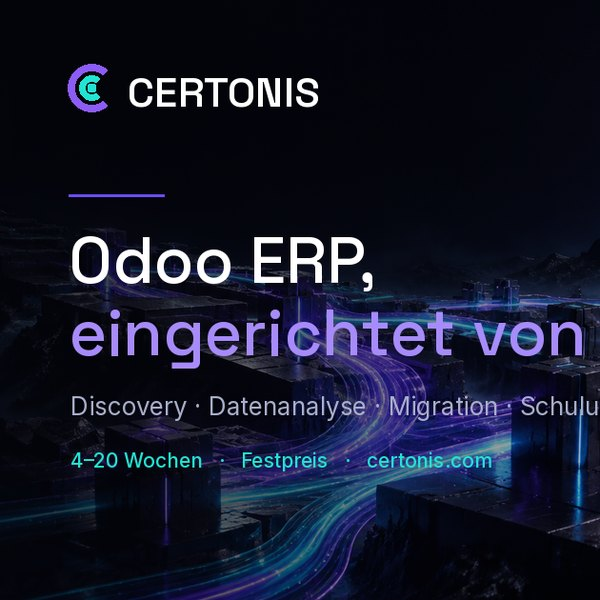
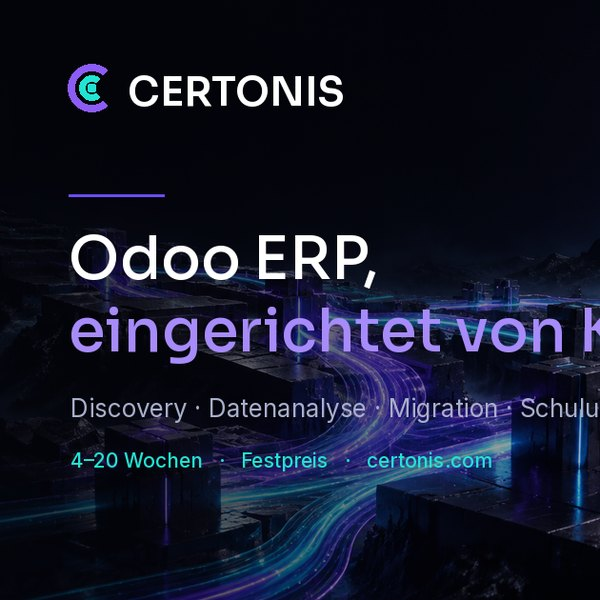
Display-Schrift von Space Grotesk auf Sora umstellen
Die Unterlängen von g, y und j wirkten abgeschnitten. Die Prüfung der
Schriftdatei zeigt: Space Grotesk zeichnet sie so — alle enden exakt bei
-0,200 em, schnurgerade. Nichts an der Seite hat beschnitten, ein Rendern ohne
Maske und ohne Farbverlauf ergab dasselbe Bild. Es war also kein Fehler,
sondern die Gestaltung der Schrift. Da es dennoch nach einem Defekt aussieht,
ersetzt Sora sie: gleiche technisch-geometrische Anmutung, aber runde,
vollständige Unterlängen.

- assets/fonts/sora-var.woff2 ersetzt space-grotesk-var.woff2, ebenso die
  Vorlade-Angabe im Seitengerüst
- Sora läuft breiter und tiefer, deshalb Hero und Überschriften etwas kleiner
  (7,2vw statt 8,2vw), Zeilenabstand von 1,02 auf 1,08 und im Hero von 0,94
  auf 1,0, damit das g der oberen Zeile die Versalien der unteren nicht berührt
- Zeilenmaske von 0,22 auf 0,26 em, gemessen an Soras Unterlänge von 0,29 em
- Social-Media-Karte neu gesetzt, sie war ebenfalls in der alten Schrift

Claude-Session: https://claude.ai/code/session_01WkdFwrJwdcpA5acGkgVG9v

diff --git a/css/main.css b/css/main.css
@@ -32,12 +32,12 @@
   --grad-line:  linear-gradient(90deg, transparent, var(--line-strong) 22%, var(--line-strong) 78%, transparent);
 
   /* Type */
-  --font-display: "Space Grotesk", ui-sans-serif, system-ui, -apple-system, "Segoe UI", sans-serif;
+  --font-display: "Sora", ui-sans-serif, system-ui, -apple-system, "Segoe UI", sans-serif;
   --font-body:    "Inter", ui-sans-serif, system-ui, -apple-system, "Segoe UI", Roboto, sans-serif;
   --font-mono:    ui-monospace, "SF Mono", "JetBrains Mono", "Fira Code", Menlo, monospace;
 
-  --fs-hero:  clamp(2.9rem, 8.2vw, 8.5rem);
-  --fs-h2:    clamp(2.1rem, 4.6vw, 4.25rem);
+  --fs-hero:  clamp(2.6rem, 7.2vw, 7.4rem);
+  --fs-h2:    clamp(2rem, 4.2vw, 3.9rem);
   --fs-h3:    clamp(1.35rem, 2.1vw, 1.9rem);
   --fs-lead:  clamp(1.05rem, 1.5vw, 1.4rem);
   --fs-body:  clamp(0.98rem, 1.05vw, 1.08rem);
@@ -127,9 +127,9 @@ ul, ol { list-style: none; padding: 0; }
   font-style: normal;
 }
 @font-face {
-  font-family: "Space Grotesk";
-  src: url("../assets/fonts/space-grotesk-var.woff2") format("woff2");
-  font-weight: 300 700;
+  font-family: "Sora";
+  src: url("../assets/fonts/sora-var.woff2") format("woff2");
+  font-weight: 100 800;
   font-display: swap;
   font-style: normal;
 }
@@ -137,7 +137,7 @@ ul, ol { list-style: none; padding: 0; }
 h1, h2, h3, h4 {
   font-family: var(--font-display);
   font-weight: 500;
-  line-height: 1.02;
+  line-height: 1.08;
   letter-spacing: -0.035em;
   text-wrap: balance;
 }
@@ -687,7 +687,7 @@ body.menu-open .mobile-menu__links a {
 .hero__title {
   font-size: var(--fs-hero);
   font-weight: 500;
-  line-height: 0.94;
+  line-height: 1.0;
   letter-spacing: -0.045em;
   max-width: 15ch;
 }
@@ -1626,8 +1626,8 @@ body.menu-open .mobile-menu__links a {
 .reveal-mask {
   display: block;
   overflow: hidden;
-  padding-bottom: 0.22em;
-  margin-bottom: -0.22em;
+  padding-bottom: 0.26em;
+  margin-bottom: -0.26em;
 }
 
 .reveal-mask > * {
@@ -1643,8 +1643,8 @@ body.menu-open .mobile-menu__links a {
   display: block;
   overflow: hidden;
   /* the mask has to sit below the baseline or descenders get sliced off */
-  padding-bottom: 0.22em;
-  margin-bottom: -0.22em;
+  padding-bottom: 0.26em;
+  margin-bottom: -0.26em;
 }
 
 .split-line > span {

diff --git a/leistungen.html b/leistungen.html
@@ -9,7 +9,7 @@
 <meta name="description" content="Discovery, KI-gestützte Datenanalyse, Konfiguration mit Claude Code, Datenmigration, Schnittstellen und Schulung — alles, was zwischen Ihrem heutigen System und einem laufenden Odoo liegt.">
 <meta name="author" content="Certonis GmbH">
 <meta name="theme-color" content="#05060B">
-<meta name="build" content="5f7209d">
+<meta name="build" content="26f2ef4">
 <link rel="canonical" href="https://certonis.com/leistungen.html">
 <meta name="robots" content="index, follow, max-image-preview:large">
 
@@ -33,9 +33,9 @@
 <link rel="apple-touch-icon" href="/assets/icons/apple-touch-icon.png">
 <link rel="manifest" href="/site.webmanifest">
 
-<link rel="preload" href="/assets/fonts/space-grotesk-var.woff2" as="font" type="font/woff2" crossorigin>
+<link rel="preload" href="/assets/fonts/sora-var.woff2" as="font" type="font/woff2" crossorigin>
 <link rel="preload" href="/assets/fonts/inter-var.woff2" as="font" type="font/woff2" crossorigin>
-<link rel="stylesheet" href="/css/main.css?v=9e06b6da">
+<link rel="stylesheet" href="/css/main.css?v=e3b148a8">
 
 <script type="application/ld+json">
 {
@@ -373,7 +373,7 @@
       <span>© <span data-year>2026</span> Certonis GmbH · FN 674951 a · Landesgericht Linz</span>
       <span>
         <span data-i18n="footer.built">Gebaut mit Claude Code.</span>
-        <span class="footer__build" title="Build-Kennung — ändert sich bei jeder Änderung an der Seite">Build 5f7209d</span>
+        <span class="footer__build" title="Build-Kennung — ändert sich bei jeder Änderung an der Seite">Build 26f2ef4</span>
       </span>
     </div>
   </div>

diff --git a/preise.html b/preise.html
@@ -9,7 +9,7 @@
 <meta name="description" content="Odoo Community kostet 0 € pro User und Monat. Odoo Enterprise läuft über die offizielle Odoo-Preisliste. Die Einrichtung durch Certonis gibt es als Festpreis nach der Datenanalyse.">
 <meta name="author" content="Certonis GmbH">
 <meta name="theme-color" content="#05060B">
-<meta name="build" content="5f7209d">
+<meta name="build" content="26f2ef4">
 <link rel="canonical" href="https://certonis.com/preise.html">
 <meta name="robots" content="index, follow, max-image-preview:large">
 
@@ -33,9 +33,9 @@
 <link rel="apple-touch-icon" href="/assets/icons/apple-touch-icon.png">
 <link rel="manifest" href="/site.webmanifest">
 
-<link rel="preload" href="/assets/fonts/space-grotesk-var.woff2" as="font" type="font/woff2" crossorigin>
+<link rel="preload" href="/assets/fonts/sora-var.woff2" as="font" type="font/woff2" crossorigin>
 <link rel="preload" href="/assets/fonts/inter-var.woff2" as="font" type="font/woff2" crossorigin>
-<link rel="stylesheet" href="/css/main.css?v=9e06b6da">
+<link rel="stylesheet" href="/css/main.css?v=e3b148a8">
 
 <script type="application/ld+json">
 {
@@ -357,7 +357,7 @@
       <span>© <span data-year>2026</span> Certonis GmbH · FN 674951 a · Landesgericht Linz</span>
       <span>
         <span data-i18n="footer.built">Gebaut mit Claude Code.</span>
-        <span class="footer__build" title="Build-Kennung — ändert sich bei jeder Änderung an der Seite">Build 5f7209d</span>
+        <span class="footer__build" title="Build-Kennung — ändert sich bei jeder Änderung an der Seite">Build 26f2ef4</span>
       </span>
     </div>
   </div>

diff --git a/sicherheit.html b/sicherheit.html
@@ -9,7 +9,7 @@
 <meta name="description" content="Geheimhaltungsvereinbarung vor der ersten Datei, Auftragsverarbeitung nach Art. 28 DSGVO, Verarbeitung in der EU, Datenminimierung und kein KI-Training mit Ihren Daten.">
 <meta name="author" content="Certonis GmbH">
 <meta name="theme-color" content="#05060B">
-<meta name="build" content="5f7209d">
+<meta name="build" content="26f2ef4">
 <link rel="canonical" href="https://certonis.com/sicherheit.html">
 <meta name="robots" content="index, follow, max-image-preview:large">
 
@@ -33,9 +33,9 @@
 <link rel="apple-touch-icon" href="/assets/icons/apple-touch-icon.png">
 <link rel="manifest" href="/site.webmanifest">
 
-<link rel="preload" href="/assets/fonts/space-grotesk-var.woff2" as="font" type="font/woff2" crossorigin>
+<link rel="preload" href="/assets/fonts/sora-var.woff2" as="font" type="font/woff2" crossorigin>
 <link rel="preload" href="/assets/fonts/inter-var.woff2" as="font" type="font/woff2" crossorigin>
-<link rel="stylesheet" href="/css/main.css?v=9e06b6da">
+<link rel="stylesheet" href="/css/main.css?v=e3b148a8">
 
 <script type="application/ld+json">
 {
@@ -296,7 +296,7 @@
       <span>© <span data-year>2026</span> Certonis GmbH · FN 674951 a · Landesgericht Linz</span>
       <span>
         <span data-i18n="footer.built">Gebaut mit Claude Code.</span>
-        <span class="footer__build" title="Build-Kennung — ändert sich bei jeder Änderung an der Seite">Build 5f7209d</span>
+        <span class="footer__build" title="Build-Kennung — ändert sich bei jeder Änderung an der Seite">Build 26f2ef4</span>
       </span>
     </div>
   </div>

diff --git a/datenschutz.html b/datenschutz.html
@@ -9,7 +9,7 @@
 <meta name="description" content="Datenschutzerklärung der Certonis GmbH: Welche Daten beim Besuch von certonis.com verarbeitet werden, auf welcher Rechtsgrundlage und welche Rechte Sie haben.">
 <meta name="author" content="Certonis GmbH">
 <meta name="theme-color" content="#05060B">
-<meta name="build" content="5f7209d">
+<meta name="build" content="26f2ef4">
 <link rel="canonical" href="https://certonis.com/datenschutz.html">
 <meta name="robots" content="index, follow, max-image-preview:large">
 
@@ -33,9 +33,9 @@
 <link rel="apple-touch-icon" href="/assets/icons/apple-touch-icon.png">
 <link rel="manifest" href="/site.webmanifest">
 
-<link rel="preload" href="/assets/fonts/space-grotesk-var.woff2" as="font" type="font/woff2" crossorigin>
+<link rel="preload" href="/assets/fonts/sora-var.woff2" as="font" type="font/woff2" crossorigin>
 <link rel="preload" href="/assets/fonts/inter-var.woff2" as="font" type="font/woff2" crossorigin>
-<link rel="stylesheet" href="/css/main.css?v=9e06b6da">
+<link rel="stylesheet" href="/css/main.css?v=e3b148a8">
 
 <script type="application/ld+json">
 {
@@ -316,7 +316,7 @@
       <span>© <span data-year>2026</span> Certonis GmbH · FN 674951 a · Landesgericht Linz</span>
       <span>
         <span data-i18n="footer.built">Gebaut mit Claude Code.</span>
-        <span class="footer__build" title="Build-Kennung — ändert sich bei jeder Änderung an der Seite">Build 5f7209d</span>
+        <span class="footer__build" title="Build-Kennung — ändert sich bei jeder Änderung an der Seite">Build 26f2ef4</span>
       </span>
     </div>
   </div>

diff --git a/index.html b/index.html
@@ -9,7 +9,7 @@
 <meta name="description" content="Certonis begleitet den Umstieg auf Odoo, das größte Open-Source-ERP der Welt. Datenanalyse, Einrichtung und Migration durch KI. Festpreis, 4–20 Wochen, Schulung inklusive.">
 <meta name="author" content="Certonis GmbH">
 <meta name="theme-color" content="#05060B">
-<meta name="build" content="5f7209d">
+<meta name="build" content="26f2ef4">
 <link rel="canonical" href="https://certonis.com/">
 <meta name="robots" content="index, follow, max-image-preview:large">
 
@@ -33,9 +33,9 @@
 <link rel="apple-touch-icon" href="/assets/icons/apple-touch-icon.png">
 <link rel="manifest" href="/site.webmanifest">
 
-<link rel="preload" href="/assets/fonts/space-grotesk-var.woff2" as="font" type="font/woff2" crossorigin>
+<link rel="preload" href="/assets/fonts/sora-var.woff2" as="font" type="font/woff2" crossorigin>
 <link rel="preload" href="/assets/fonts/inter-var.woff2" as="font" type="font/woff2" crossorigin>
-<link rel="stylesheet" href="/css/main.css?v=9e06b6da">
+<link rel="stylesheet" href="/css/main.css?v=e3b148a8">
 
 <script type="application/ld+json">
 {
@@ -447,7 +447,7 @@
       <span>© <span data-year>2026</span> Certonis GmbH · FN 674951 a · Landesgericht Linz</span>
       <span>
         <span data-i18n="footer.built">Gebaut mit Claude Code.</span>
-        <span class="footer__build" title="Build-Kennung — ändert sich bei jeder Änderung an der Seite">Build 5f7209d</span>
+        <span class="footer__build" title="Build-Kennung — ändert sich bei jeder Änderung an der Seite">Build 26f2ef4</span>
       </span>
     </div>
   </div>

diff --git a/ki.html b/ki.html
@@ -9,7 +9,7 @@
 <meta name="description" content="Was die KI im ERP-Projekt übernimmt und was Menschen entscheiden. Vergleich zum klassischen Projektverlauf: 1–5 statt 9–18 Monate, rund 20 statt 120 Beratertage.">
 <meta name="author" content="Certonis GmbH">
 <meta name="theme-color" content="#05060B">
-<meta name="build" content="5f7209d">
+<meta name="build" content="26f2ef4">
 <link rel="canonical" href="https://certonis.com/ki.html">
 <meta name="robots" content="index, follow, max-image-preview:large">
 
@@ -33,9 +33,9 @@
 <link rel="apple-touch-icon" href="/assets/icons/apple-touch-icon.png">
 <link rel="manifest" href="/site.webmanifest">
 
-<link rel="preload" href="/assets/fonts/space-grotesk-var.woff2" as="font" type="font/woff2" crossorigin>
+<link rel="preload" href="/assets/fonts/sora-var.woff2" as="font" type="font/woff2" crossorigin>
 <link rel="preload" href="/assets/fonts/inter-var.woff2" as="font" type="font/woff2" crossorigin>
-<link rel="stylesheet" href="/css/main.css?v=9e06b6da">
+<link rel="stylesheet" href="/css/main.css?v=e3b148a8">
 
 <script type="application/ld+json">
 {
@@ -317,7 +317,7 @@
       <span>© <span data-year>2026</span> Certonis GmbH · FN 674951 a · Landesgericht Linz</span>
       <span>
         <span data-i18n="footer.built">Gebaut mit Claude Code.</span>
-        <span class="footer__build" title="Build-Kennung — ändert sich bei jeder Änderung an der Seite">Build 5f7209d</span>
+        <span class="footer__build" title="Build-Kennung — ändert sich bei jeder Änderung an der Seite">Build 26f2ef4</span>
       </span>
     </div>
   </div>

diff --git a/faq.html b/faq.html
@@ -9,7 +9,7 @@
 <meta name="description" content="Was kostet die Einrichtung, warum ist Odoo Community kostenlos, was macht die KI und was der Mensch, können Altdaten übernommen werden und wo läuft das System?">
 <meta name="author" content="Certonis GmbH">
 <meta name="theme-color" content="#05060B">
-<meta name="build" content="5f7209d">
+<meta name="build" content="26f2ef4">
 <link rel="canonical" href="https://certonis.com/faq.html">
 <meta name="robots" content="index, follow, max-image-preview:large">
 
@@ -33,9 +33,9 @@
 <link rel="apple-touch-icon" href="/assets/icons/apple-touch-icon.png">
 <link rel="manifest" href="/site.webmanifest">
 
-<link rel="preload" href="/assets/fonts/space-grotesk-var.woff2" as="font" type="font/woff2" crossorigin>
+<link rel="preload" href="/assets/fonts/sora-var.woff2" as="font" type="font/woff2" crossorigin>
 <link rel="preload" href="/assets/fonts/inter-var.woff2" as="font" type="font/woff2" crossorigin>
-<link rel="stylesheet" href="/css/main.css?v=9e06b6da">
+<link rel="stylesheet" href="/css/main.css?v=e3b148a8">
 
 <script type="application/ld+json">
 {
@@ -396,7 +396,7 @@
       <span>© <span data-year>2026</span> Certonis GmbH · FN 674951 a · Landesgericht Linz</span>
       <span>
         <span data-i18n="footer.built">Gebaut mit Claude Code.</span>
-        <span class="footer__build" title="Build-Kennung — ändert sich bei jeder Änderung an der Seite">Build 5f7209d</span>
+        <span class="footer__build" title="Build-Kennung — ändert sich bei jeder Änderung an der Seite">Build 26f2ef4</span>
       </span>
     </div>
   </div>

diff --git a/ablauf.html b/ablauf.html
@@ -9,7 +9,7 @@
 <meta name="description" content="Discovery Call, NDA und Datenschutz, Datenanalyse durch AI, Festpreisangebot, Einrichtung und Schulung. Der vollständige Ablauf mit realistischem Zeitplan.">
 <meta name="author" content="Certonis GmbH">
 <meta name="theme-color" content="#05060B">
-<meta name="build" content="5f7209d">
+<meta name="build" content="26f2ef4">
 <link rel="canonical" href="https://certonis.com/ablauf.html">
 <meta name="robots" content="index, follow, max-image-preview:large">
 
@@ -33,9 +33,9 @@
 <link rel="apple-touch-icon" href="/assets/icons/apple-touch-icon.png">
 <link rel="manifest" href="/site.webmanifest">
 
-<link rel="preload" href="/assets/fonts/space-grotesk-var.woff2" as="font" type="font/woff2" crossorigin>
+<link rel="preload" href="/assets/fonts/sora-var.woff2" as="font" type="font/woff2" crossorigin>
 <link rel="preload" href="/assets/fonts/inter-var.woff2" as="font" type="font/woff2" crossorigin>
-<link rel="stylesheet" href="/css/main.css?v=9e06b6da">
+<link rel="stylesheet" href="/css/main.css?v=e3b148a8">
 
 <script type="application/ld+json">
 {
@@ -395,7 +395,7 @@
       <span>© <span data-year>2026</span> Certonis GmbH · FN 674951 a · Landesgericht Linz</span>
       <span>
         <span data-i18n="footer.built">Gebaut mit Claude Code.</span>
-        <span class="footer__build" title="Build-Kennung — ändert sich bei jeder Änderung an der Seite">Build 5f7209d</span>
+        <span class="footer__build" title="Build-Kennung — ändert sich bei jeder Änderung an der Seite">Build 26f2ef4</span>
       </span>
     </div>
   </div>

diff --git a/agb.html b/agb.html
@@ -9,7 +9,7 @@
 <meta name="description" content="Allgemeine Geschäftsbedingungen der Certonis GmbH für Leistungen rund um die Einführung und Betreuung von Odoo-ERP-Systemen.">
 <meta name="author" content="Certonis GmbH">
 <meta name="theme-color" content="#05060B">
-<meta name="build" content="5f7209d">
+<meta name="build" content="26f2ef4">
 <link rel="canonical" href="https://certonis.com/agb.html">
 <meta name="robots" content="index, follow, max-image-preview:large">
 
@@ -33,9 +33,9 @@
 <link rel="apple-touch-icon" href="/assets/icons/apple-touch-icon.png">
 <link rel="manifest" href="/site.webmanifest">
 
-<link rel="preload" href="/assets/fonts/space-grotesk-var.woff2" as="font" type="font/woff2" crossorigin>
+<link rel="preload" href="/assets/fonts/sora-var.woff2" as="font" type="font/woff2" crossorigin>
 <link rel="preload" href="/assets/fonts/inter-var.woff2" as="font" type="font/woff2" crossorigin>
-<link rel="stylesheet" href="/css/main.css?v=9e06b6da">
+<link rel="stylesheet" href="/css/main.css?v=e3b148a8">
 
 <script type="application/ld+json">
 {
@@ -300,7 +300,7 @@
       <span>© <span data-year>2026</span> Certonis GmbH · FN 674951 a · Landesgericht Linz</span>
       <span>
         <span data-i18n="footer.built">Gebaut mit Claude Code.</span>
-        <span class="footer__build" title="Build-Kennung — ändert sich bei jeder Änderung an der Seite">Build 5f7209d</span>
+        <span class="footer__build" title="Build-Kennung — ändert sich bei jeder Änderung an der Seite">Build 26f2ef4</span>
       </span>
     </div>
   </div>

diff --git a/kontakt.html b/kontakt.html
@@ -9,7 +9,7 @@
 <meta name="description" content="45 Minuten, kostenlos und unverbindlich. Schreiben Sie uns, wo Sie stehen — wir melden uns innerhalb eines Werktags.">
 <meta name="author" content="Certonis GmbH">
 <meta name="theme-color" content="#05060B">
-<meta name="build" content="5f7209d">
+<meta name="build" content="26f2ef4">
 <link rel="canonical" href="https://certonis.com/kontakt.html">
 <meta name="robots" content="index, follow, max-image-preview:large">
 
@@ -33,9 +33,9 @@
 <link rel="apple-touch-icon" href="/assets/icons/apple-touch-icon.png">
 <link rel="manifest" href="/site.webmanifest">
 
-<link rel="preload" href="/assets/fonts/space-grotesk-var.woff2" as="font" type="font/woff2" crossorigin>
+<link rel="preload" href="/assets/fonts/sora-var.woff2" as="font" type="font/woff2" crossorigin>
 <link rel="preload" href="/assets/fonts/inter-var.woff2" as="font" type="font/woff2" crossorigin>
-<link rel="stylesheet" href="/css/main.css?v=9e06b6da">
+<link rel="stylesheet" href="/css/main.css?v=e3b148a8">
 
 <script type="application/ld+json">
 {
@@ -366,7 +366,7 @@
       <span>© <span data-year>2026</span> Certonis GmbH · FN 674951 a · Landesgericht Linz</span>
       <span>
         <span data-i18n="footer.built">Gebaut mit Claude Code.</span>
-        <span class="footer__build" title="Build-Kennung — ändert sich bei jeder Änderung an der Seite">Build 5f7209d</span>
+        <span class="footer__build" title="Build-Kennung — ändert sich bei jeder Änderung an der Seite">Build 26f2ef4</span>
       </span>
     </div>
   </div>

diff --git a/impressum.html b/impressum.html
@@ -9,7 +9,7 @@
 <meta name="description" content="Impressum und Offenlegung der Certonis GmbH gemäß § 5 ECG, § 14 UGB und §§ 24, 25 MedienG.">
 <meta name="author" content="Certonis GmbH">
 <meta name="theme-color" content="#05060B">
-<meta name="build" content="5f7209d">
+<meta name="build" content="26f2ef4">
 <link rel="canonical" href="https://certonis.com/impressum.html">
 <meta name="robots" content="index, follow, max-image-preview:large">
 
@@ -33,9 +33,9 @@
 <link rel="apple-touch-icon" href="/assets/icons/apple-touch-icon.png">
 <link rel="manifest" href="/site.webmanifest">
 
-<link rel="preload" href="/assets/fonts/space-grotesk-var.woff2" as="font" type="font/woff2" crossorigin>
+<link rel="preload" href="/assets/fonts/sora-var.woff2" as="font" type="font/woff2" crossorigin>
 <link rel="preload" href="/assets/fonts/inter-var.woff2" as="font" type="font/woff2" crossorigin>
-<link rel="stylesheet" href="/css/main.css?v=9e06b6da">
+<link rel="stylesheet" href="/css/main.css?v=e3b148a8">
 
 <script type="application/ld+json">
 {
@@ -285,7 +285,7 @@
       <span>© <span data-year>2026</span> Certonis GmbH · FN 674951 a · Landesgericht Linz</span>
       <span>
         <span data-i18n="footer.built">Gebaut mit Claude Code.</span>
-        <span class="footer__build" title="Build-Kennung — ändert sich bei jeder Änderung an der Seite">Build 5f7209d</span>
+        <span class="footer__build" title="Build-Kennung — ändert sich bei jeder Änderung an der Seite">Build 26f2ef4</span>
       </span>
     </div>
   </div>
